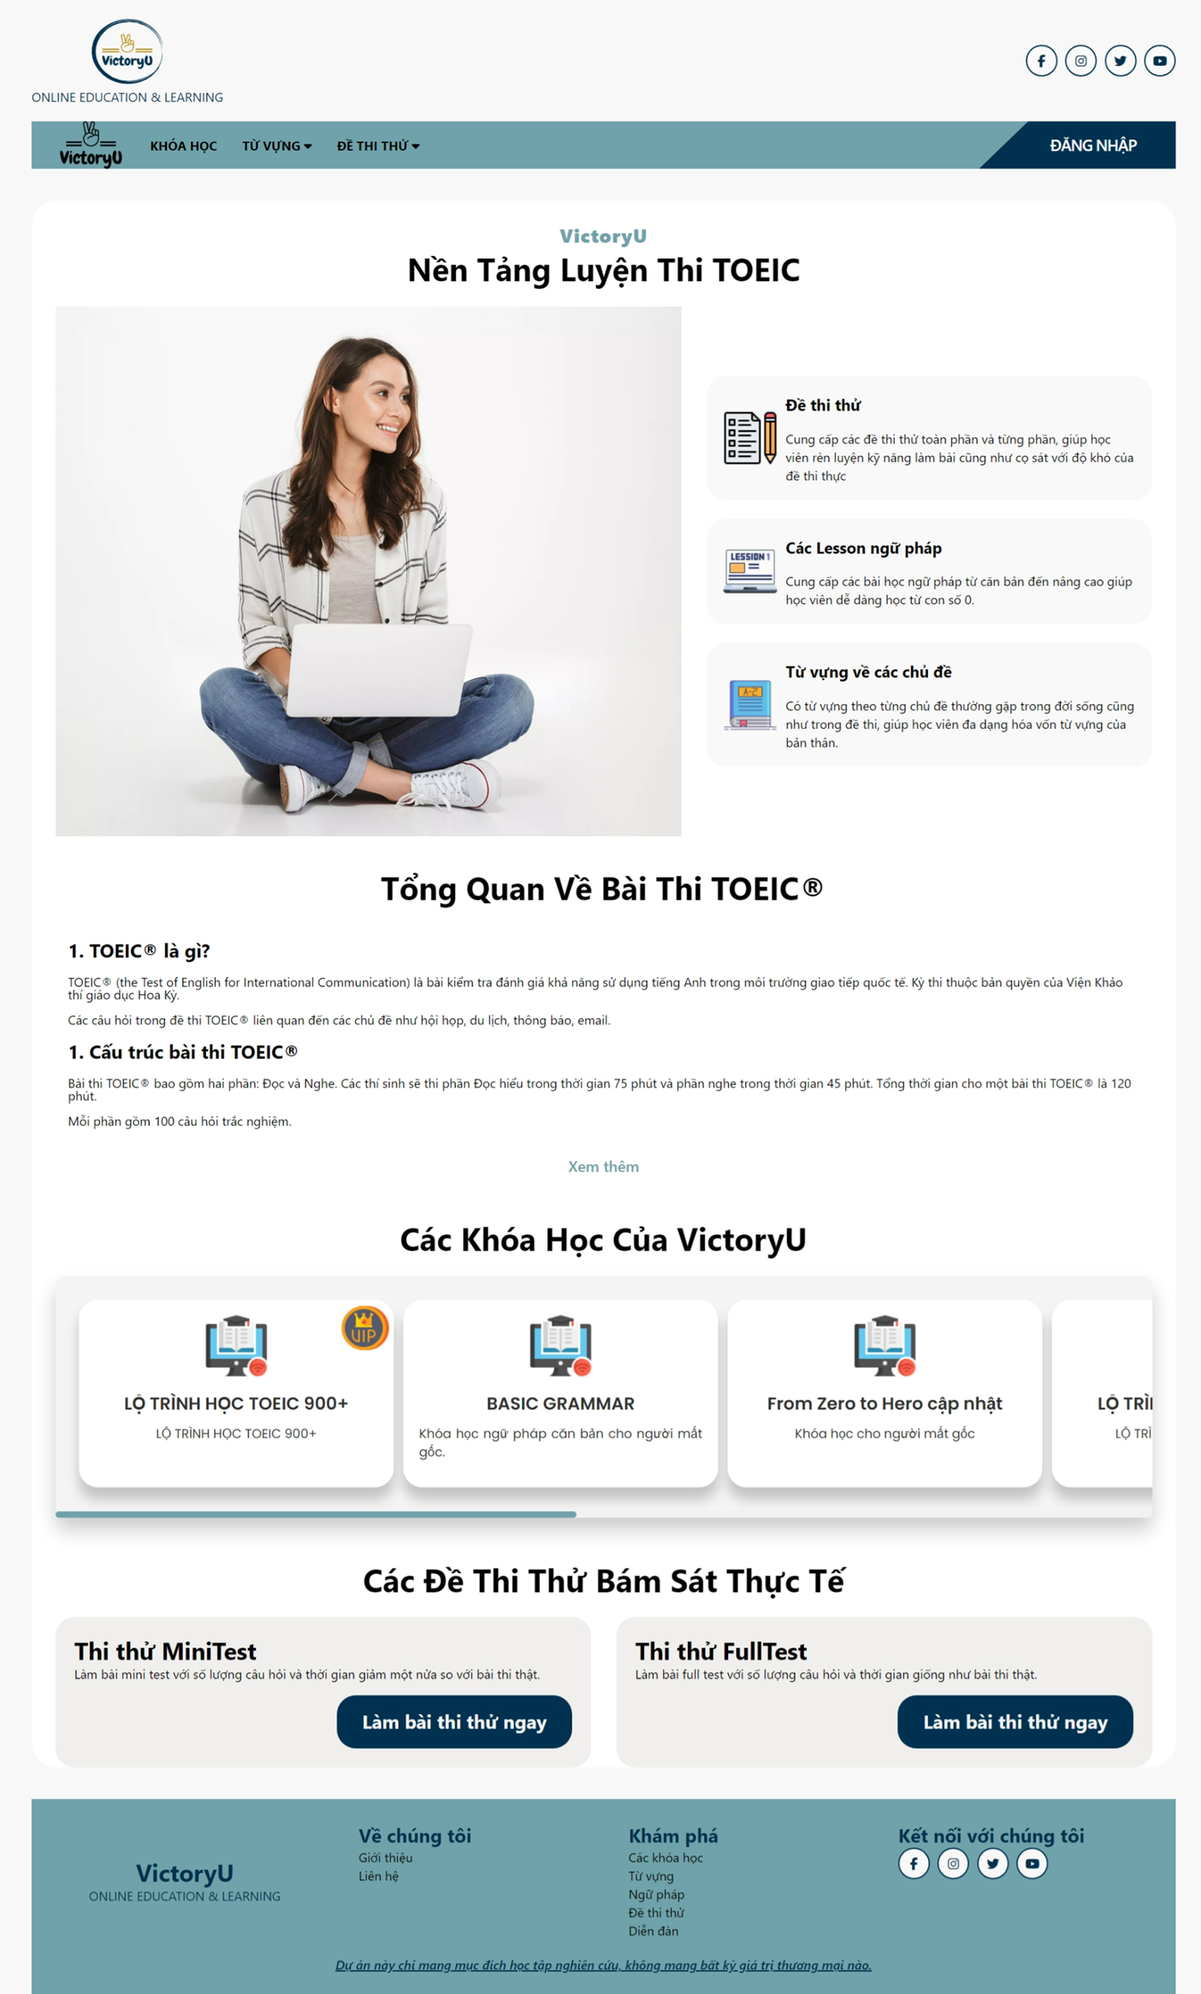
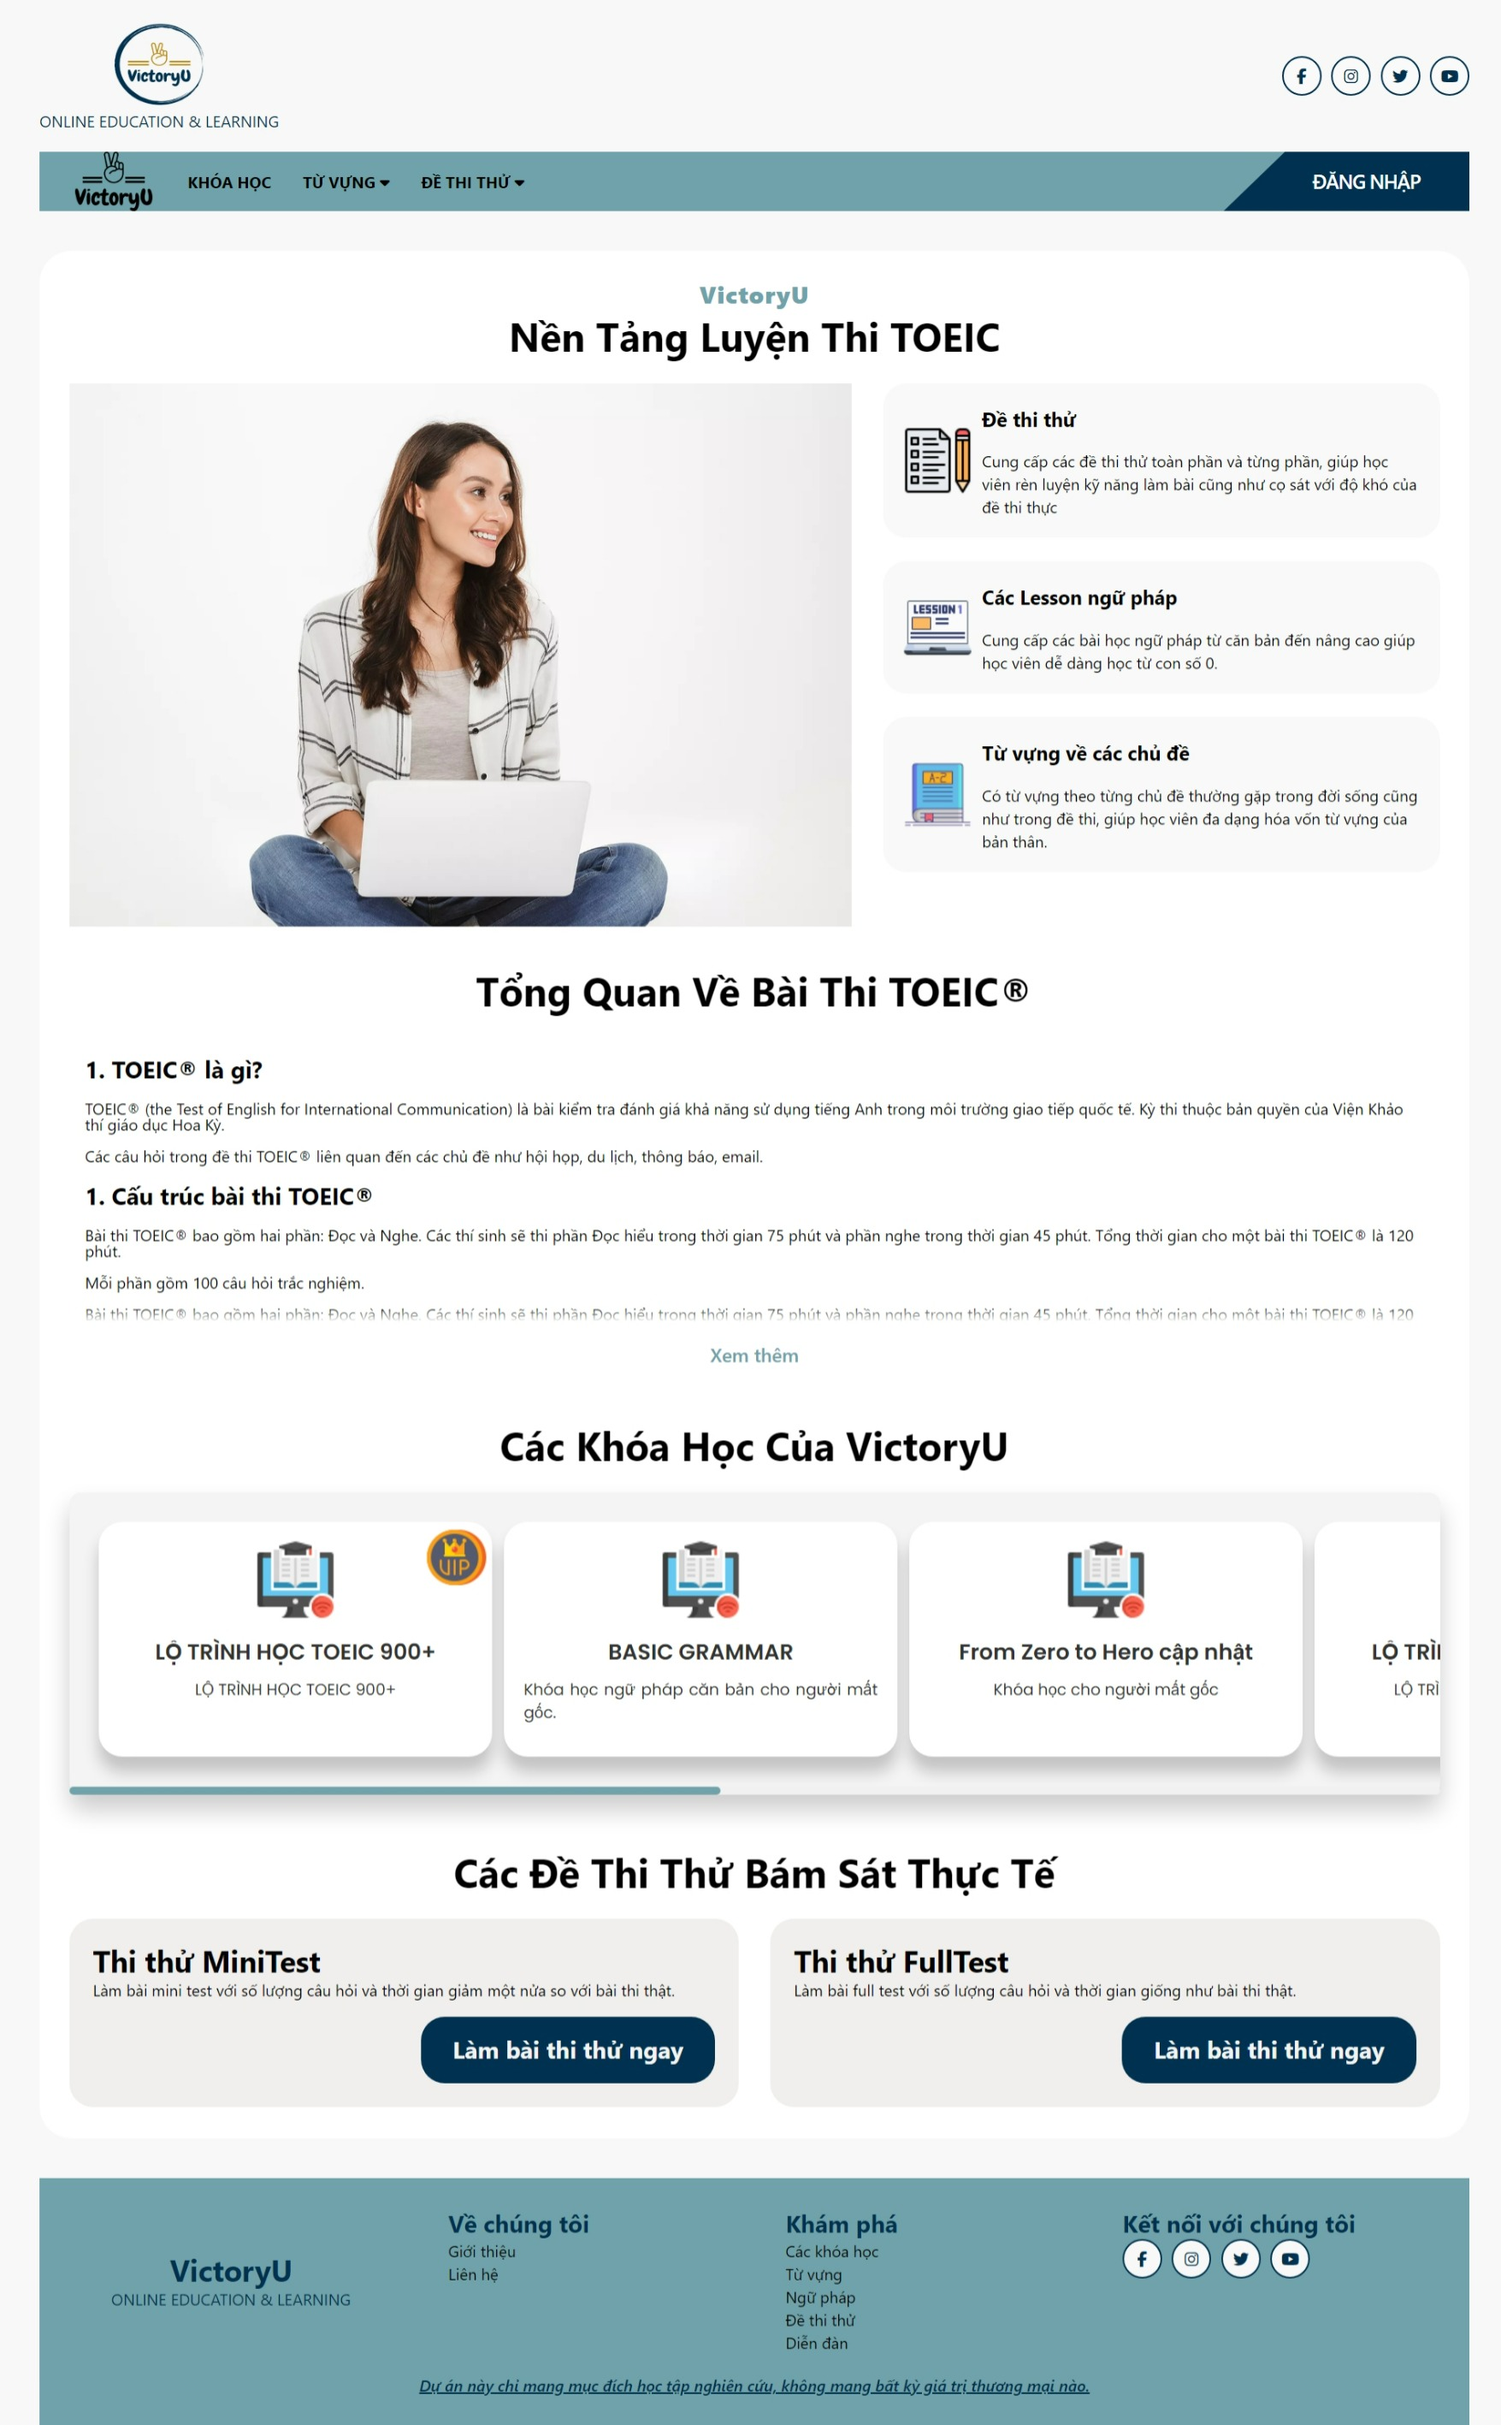
Improve - Change gg login (#15)

diff --git a/fe/src/Component/Common/Header/Header.jsx b/fe/src/Component/Common/Header/Header.jsx
@@ -144,7 +144,7 @@ function Header() {
                   </div>
                   <div className="dropdown-item" onClick={handleLogout}>
                     <GoogleLogout
-                      clientId="1047820244524-i4q01pgchejg1cvdfne578ag4sj44elo.apps.googleusercontent.com"
+                      clientId="661333061315-hs398i950931ta2859hol8udsfo14haq.apps.googleusercontent.com"
                       buttonText="Đăng xuất"
                       onLogoutSuccess={() => {
                         console.log("Logout success.");

diff --git a/fe/src/Component/Login/Login.jsx b/fe/src/Component/Login/Login.jsx
@@ -285,7 +285,7 @@ function Login() {
                     <i className="fab fa-twitter"></i>
                   </a>
                   <GoogleLogin
-                    clientId="1047820244524-i4q01pgchejg1cvdfne578ag4sj44elo.apps.googleusercontent.com"
+                    clientId="661333061315-hs398i950931ta2859hol8udsfo14haq.apps.googleusercontent.com"
                     buttonText=""
                     onSuccess={(response) => {
                       LoginGoogle(response.profileObj);

diff --git a/fe/src/Component/Home/AboutHome/AboutCard.css b/fe/src/Component/Home/AboutHome/AboutCard.css
@@ -5,11 +5,14 @@
   display: flex;
   align-items: center;
   gap: 2rem;
+  align-items: stretch;
+  max-height: 550px;
 }
 .aboutHome .left img {
   width: 100%;
   height: 100%;
   object-fit: cover;
+  object-position: top center;
 }
 .aboutHome .right {
   display: flex;
@@ -47,6 +50,7 @@
 @media screen and (max-width: 1100px) {
   .about-card-wrapper {
     flex-direction: column;
+    max-height: unset;
   }
   .left {
     display: flex;

diff --git a/fe/src/Component/Home/TestHome/TestHome.css b/fe/src/Component/Home/TestHome/TestHome.css
@@ -5,6 +5,7 @@
   display: flex;
   gap: 2rem;
   justify-content: space-evenly;
+  padding-bottom: 2rem;
 }
 .testHome .test-item {
   display: flex;
